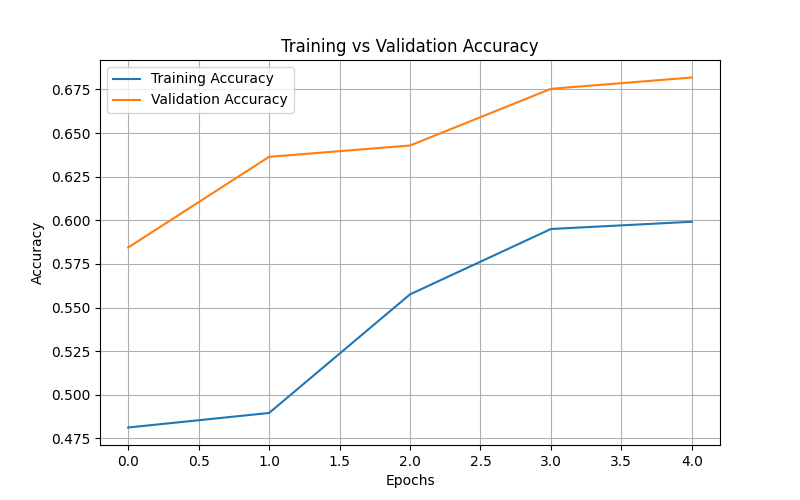
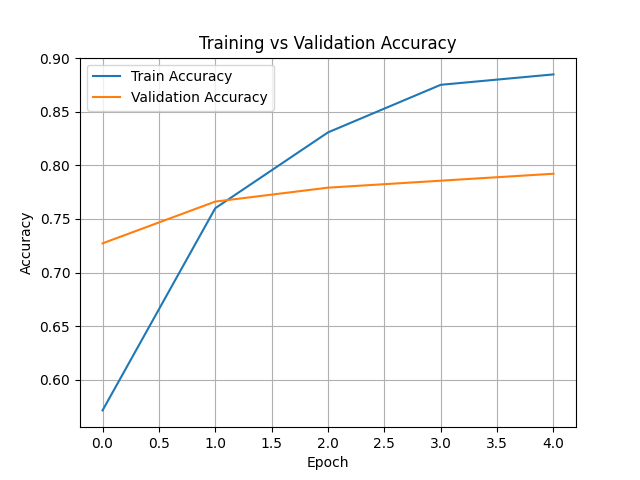
Added evaluation, Gradio app, loss graph and confusion matrix

diff --git a/train_model.py b/train_model.py
@@ -1,73 +1,85 @@
 import tensorflow as tf
 from tensorflow.keras.applications import MobileNetV2
-from tensorflow.keras.models import Sequential
-from tensorflow.keras.layers import Dense, GlobalAveragePooling2D
+from tensorflow.keras.layers import Dense,GlobalAveragePooling2D
+from tensorflow.keras.models import Model
 from tensorflow.keras.preprocessing.image import ImageDataGenerator
 from tensorflow.keras.optimizers import Adam
-import os
 
-# Paths
-BASE_DIR = "dataset_split"
-IMG_SIZE = 224
-BATCH_SIZE = 32
+# Load base model
+base_model=MobileNetV2(
+weights="imagenet",
+include_top=False,
+input_shape=(224,224,3)
+)
+# Freeze base model
+base_model.trainable=False
+# Custom classification head
+x = base_model.output
+x = GlobalAveragePooling2D()(x)
+x = Dense(128, activation="relu")(x)
+output = Dense(1, activation="sigmoid")(x)
 
-train_dir = os.path.join(BASE_DIR, "train")
-val_dir = os.path.join(BASE_DIR, "val")
-
-# Image generators
-train_gen = ImageDataGenerator(
-    rescale=1./255,
-    rotation_range=20,
-    zoom_range=0.2,
-    horizontal_flip=True
+model = Model(
+    inputs=base_model.input,
+    outputs=output
 )
 
-val_gen = ImageDataGenerator(rescale=1./255)
-
-train_data = train_gen.flow_from_directory(
-    train_dir,
-    target_size=(IMG_SIZE, IMG_SIZE),
-    batch_size=BATCH_SIZE,
-    class_mode="binary"
-)
-
-val_data = val_gen.flow_from_directory(
-    val_dir,
-    target_size=(IMG_SIZE, IMG_SIZE),
-    batch_size=BATCH_SIZE,
-    class_mode="binary"
-)
-
-# Base model
-base_model = MobileNetV2(
-    weights="imagenet",
-    include_top=False,
-    input_shape=(IMG_SIZE, IMG_SIZE, 3)
-)
-
-base_model.trainable = False
-
-# Model
-model = Sequential([
-    base_model,
-    GlobalAveragePooling2D(),
-    Dense(1, activation="sigmoid")
-])
-
+#Compile
 model.compile(
     optimizer=Adam(learning_rate=0.0001),
-    loss="binary_crossentropy",
-    metrics=["accuracy"]
+loss="binary_crossentropy",
+metrics=["accuracy"]
 )
 
-# Training
-history = model.fit(
-    train_data,
-    validation_data=val_data,
-    epochs=5
+#Data generators (No augmentation for now)
+train_datagen=ImageDataGenerator(rescale=1./255)
+val_datagen=ImageDataGenerator(rescale=1./255)
+train_data=train_datagen.flow_from_directory(
+"dataset_split/train",
+target_size=(224,224),
+batch_size=32,
+class_mode="binary"
+)
+val_data=val_datagen.flow_from_directory(
+"dataset_split/val",
+target_size=(224,224),
+batch_size=32,
+class_mode="binary"
+)
+#Train
+history=model.fit(
+train_data,
+validation_data=val_data,
+epochs=5
 )
 
-# Save model
-model.save("handmade_vs_machine_model.h5")
+#Save model
+model.save("mobilenetv2_handmade_vs_machine.h5")
+print("Training complete & model saved")
+import matplotlib.pyplot as plt
 
-print("✅ Model training complete & saved successfully")
+# Accuracy graph
+plt.figure()
+plt.plot(history.history['accuracy'], label='Train Accuracy')
+plt.plot(history.history['val_accuracy'], label='Validation Accuracy')
+plt.xlabel('Epoch')
+plt.ylabel('Accuracy')
+plt.title('Training vs Validation Accuracy')
+plt.legend()
+plt.grid(True)
+plt.savefig("training_accuracy.png")
+plt.close()
+
+
+# Loss graph
+plt.figure()
+plt.plot(history.history['loss'], label='Train Loss')
+plt.plot(history.history['val_loss'], label='Validation Loss')
+plt.xlabel('Epoch')
+plt.ylabel('Loss')
+plt.title('Training vs Validation Loss')
+plt.legend()
+plt.grid(True)
+plt.savefig("training_loss.png")
+plt.close()
+

diff --git a/predict_multiple_images.py b/predict_multiple_images.py
@@ -1,36 +1,30 @@
-import tensorflow as tf
-import numpy as np
 import os
+import numpy as np
+from tensorflow.keras.models import load_model
 from tensorflow.keras.preprocessing import image
 
 # Load trained model
-model = tf.keras.models.load_model("handmade_vs_machine_model.h5")
+model = load_model("mobilenetv2_handmade_vs_machine.h5")
 
-# Image size (same as training)
-IMG_SIZE = (224, 224)
+# Folder containing test images
+test_folder = "test_images"
 
-# Class names (same order as training)
-class_names = ["Handmade", "Machine_made"]
+IMG_SIZE = 224
 
-# Images list
-images = [
-    "test1.jpg",
-    "test2.jpg",
-    "test3.jpg"
-]
+print("🔍 Predicting images from folder:", test_folder)
+print("-" * 40)
 
-print("\n🔍 Running predictions on multiple images:\n")
+for img_name in os.listdir(test_folder):
+    img_path = os.path.join(test_folder, img_name)
 
-for img_name in images:
-    if not os.path.exists(img_name):
-        print(f"❌ {img_name} not found")
-        continue
+    if img_name.lower().endswith((".jpg", ".jpeg", ".png")):
+        img = image.load_img(img_path, target_size=(IMG_SIZE, IMG_SIZE))
+        img_array = image.img_to_array(img)
+        img_array = img_array / 255.0
+        img_array = np.expand_dims(img_array, axis=0)
 
-    img = image.load_img(img_name, target_size=IMG_SIZE)
-    img_array = image.img_to_array(img)
-    img_array = np.expand_dims(img_array, axis=0) / 255.0
+        prediction = model.predict(img_array)[0][0]
 
-    prediction = model.predict(img_array, verbose=0)
-    predicted_class = class_names[np.argmax(prediction)]
+        label = "Machine-made" if prediction > 0.5 else "Handmade"
 
-    print(f"🖼 {img_name} → ✅ {predicted_class}")
+        print(f"{img_name:25} → {label}")

diff --git a/evaluate_model.py b/evaluate_model.py
@@ -1,0 +1,58 @@
+import tensorflow as tf
+import numpy as np
+from sklearn.metrics import confusion_matrix, classification_report
+from tensorflow.keras.preprocessing.image import ImageDataGenerator
+
+# Load trained model
+model = tf.keras.models.load_model("mobilenetv2_handmade_vs_machine.h5")
+
+# Validation data generator
+val_datagen = ImageDataGenerator(rescale=1./255)
+
+val_data = val_datagen.flow_from_directory(
+    "dataset_split/val",
+    target_size=(224, 224),
+    batch_size=32,
+    class_mode="binary",
+    shuffle=False
+)
+
+# Predictions
+y_true = val_data.classes
+y_pred_prob = model.predict(val_data)
+y_pred = (y_pred_prob > 0.5).astype(int).ravel()
+
+# Confusion Matrix
+cm = confusion_matrix(y_true, y_pred)
+print("\nConfusion Matrix:")
+print(cm)
+
+# Classification Report
+print("\nClassification Report:")
+print(classification_report(y_true, y_pred, target_names=["Handmade", "Machine-Made"]))
+
+import matplotlib.pyplot as plt
+import seaborn as sns
+import numpy as np
+
+# Confusion matrix values (already calculated)
+cm = confusion_matrix(y_true, y_pred)
+
+# Plot
+plt.figure(figsize=(6, 5))
+sns.heatmap(
+    cm,
+    annot=True,
+    fmt="d",
+    cmap="Blues",
+    xticklabels=["Handmade", "Machine-Made"],
+    yticklabels=["Handmade", "Machine-Made"]
+)
+
+plt.xlabel("Predicted Label")
+plt.ylabel("True Label")
+plt.title("Confusion Matrix - Handmade vs Machine-Made")
+
+# Save image
+plt.savefig("confusion_matrix.png")
+plt.show()

diff --git a/app.py b/app.py
@@ -1,0 +1,32 @@
+import gradio as gr
+import numpy as np
+from tensorflow.keras.models import load_model
+from tensorflow.keras.preprocessing import image
+
+# Load model
+model = load_model("mobilenetv2_handmade_vs_machine.h5")
+
+IMG_SIZE = 224
+
+def predict_image(img):
+    img = img.resize((IMG_SIZE, IMG_SIZE))
+    img_array = np.array(img) / 255.0
+    img_array = np.expand_dims(img_array, axis=0)
+
+    prediction = model.predict(img_array)[0][0]
+
+    if prediction > 0.5:
+        return "🟢 Machine-Made"
+    else:
+        return "🟠 Handmade"
+
+# Gradio Interface
+interface = gr.Interface(
+    fn=predict_image,
+    inputs=gr.Image(type="pil", label="Upload an Image"),
+    outputs=gr.Label(label="Prediction"),
+    title="Handmade vs Machine-Made Image Classifier",
+    description="Upload an artwork image to check whether it is Handmade or Machine-Made"
+)
+
+interface.launch(share=True)

diff --git a/predict_single_image.py b/predict_single_image.py
@@ -6,7 +6,7 @@ from tensorflow.keras.preprocessing import image
 model = tf.keras.models.load_model("handmade_vs_machine_model.h5")
 
 # Image path (change name if needed)
-img_path = "test_image.jpg"
+img_path = "test.jpg"
 
 # Load & preprocess image
 img = image.load_img(img_path, target_size=(224, 224))
